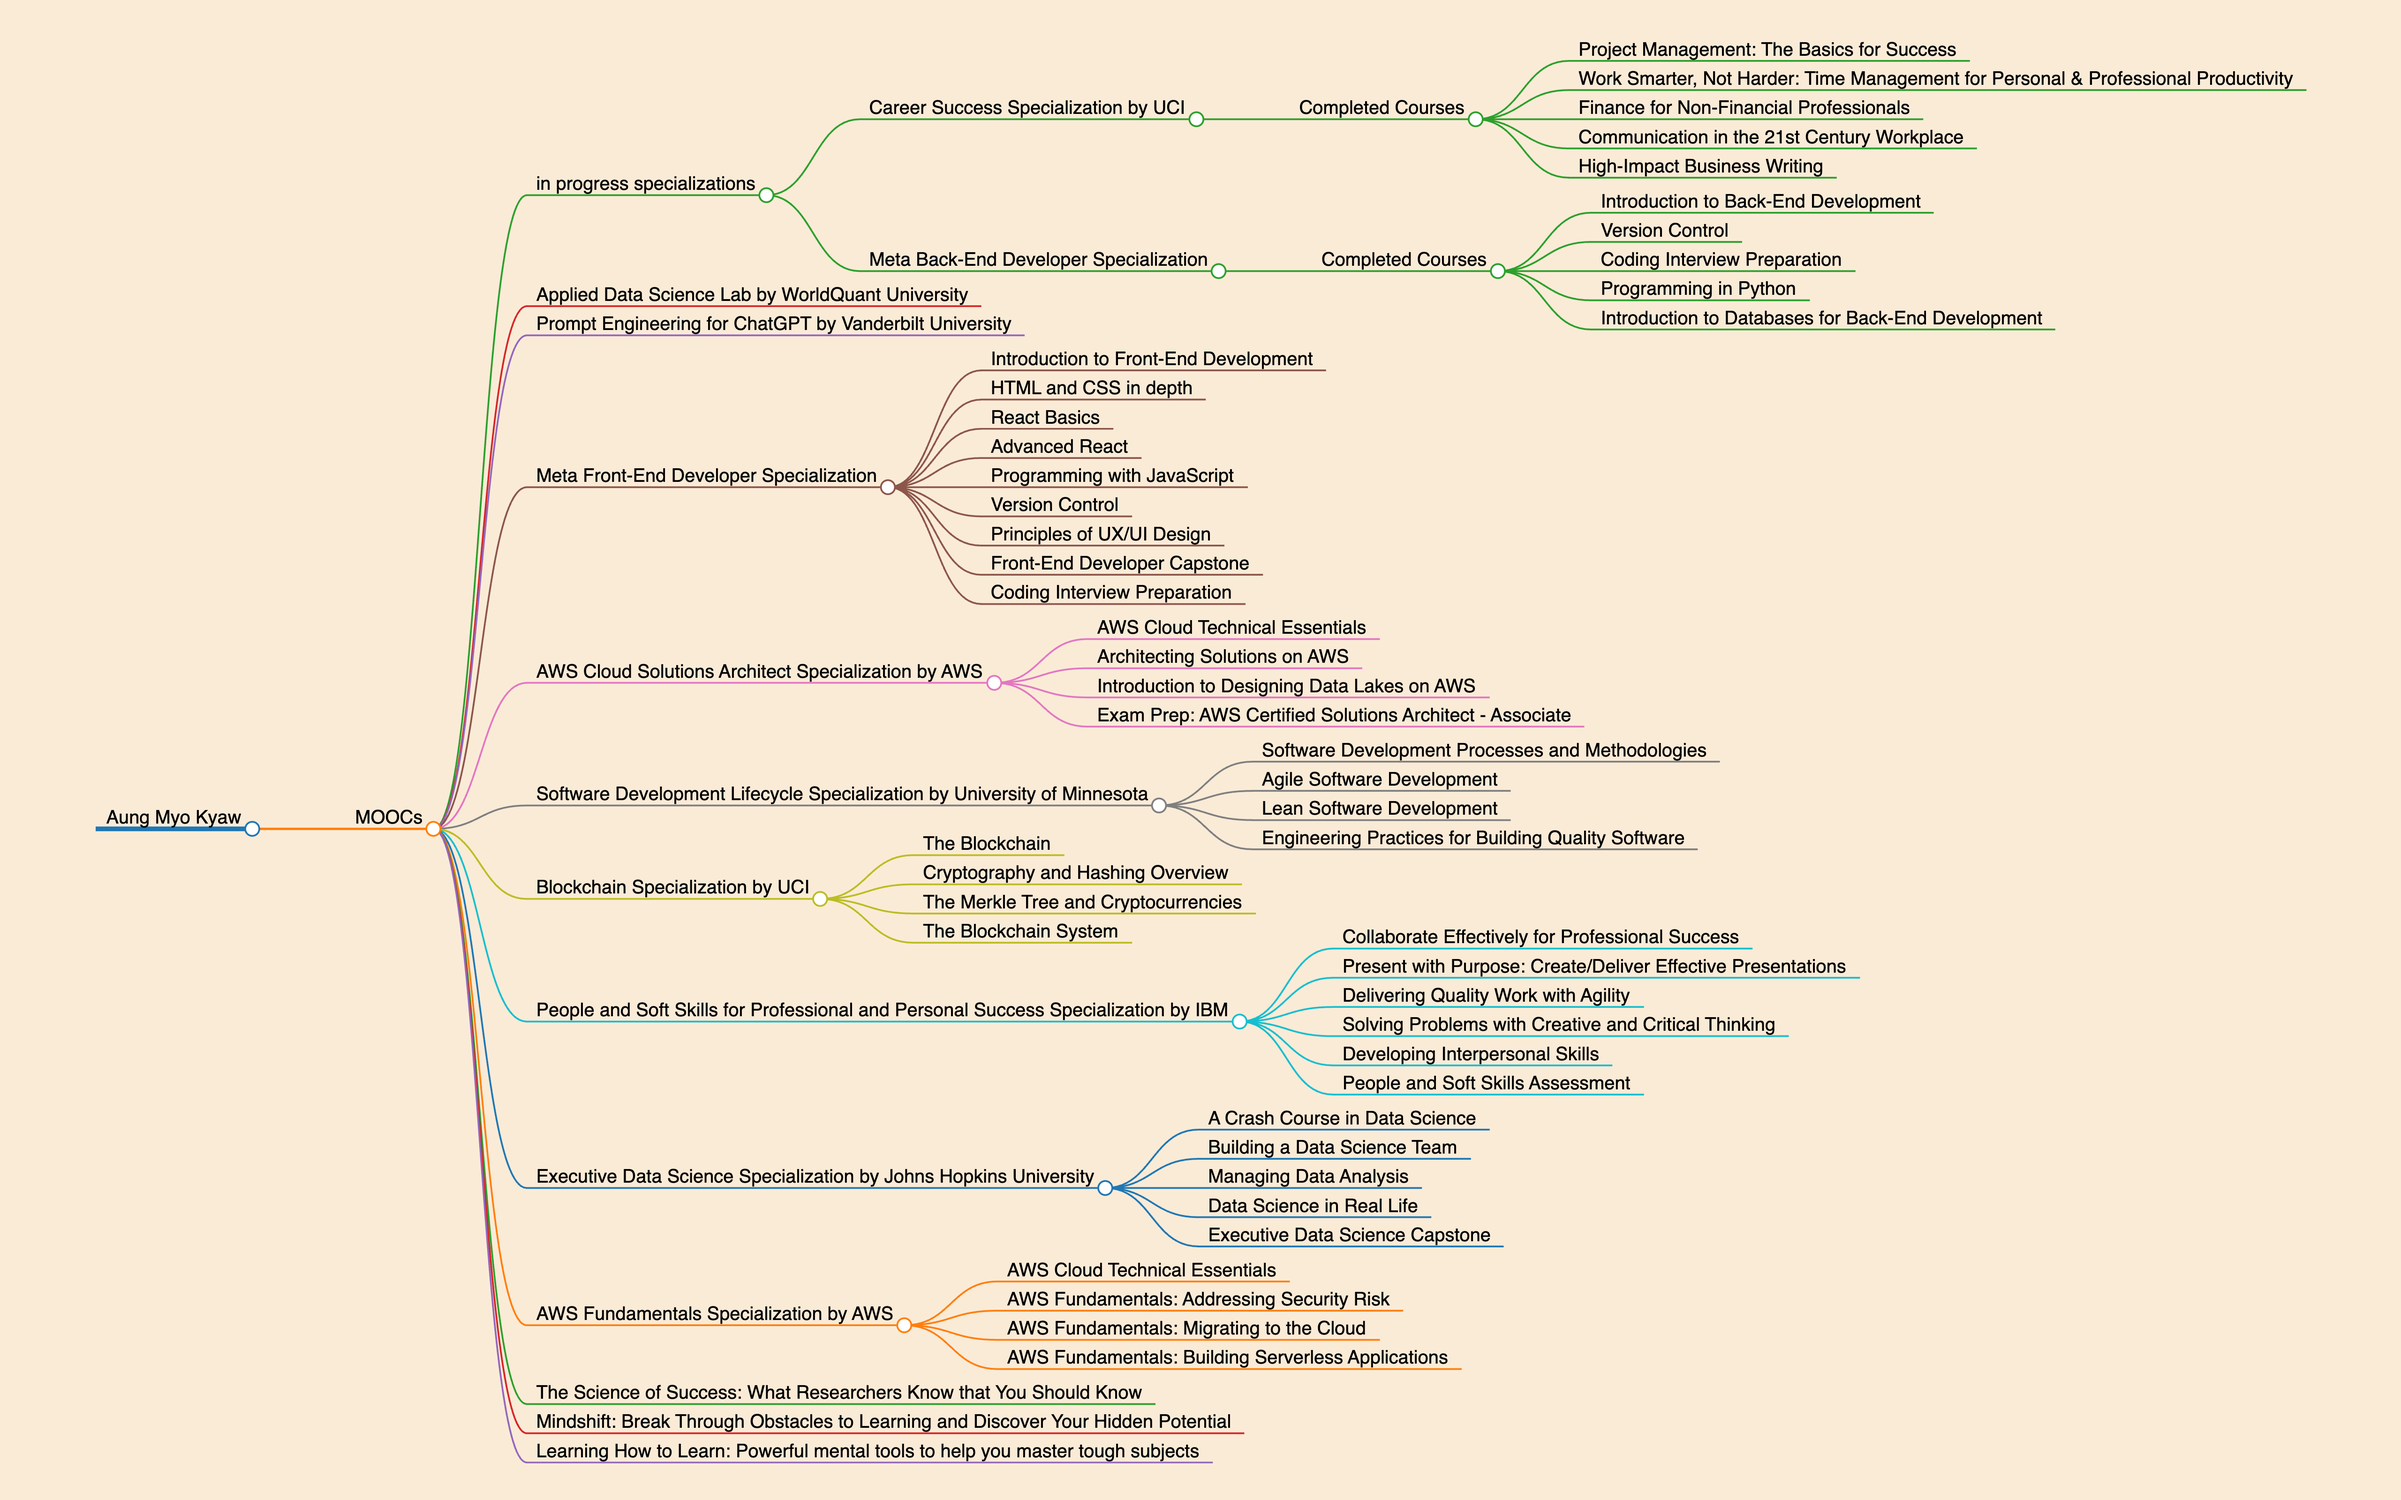
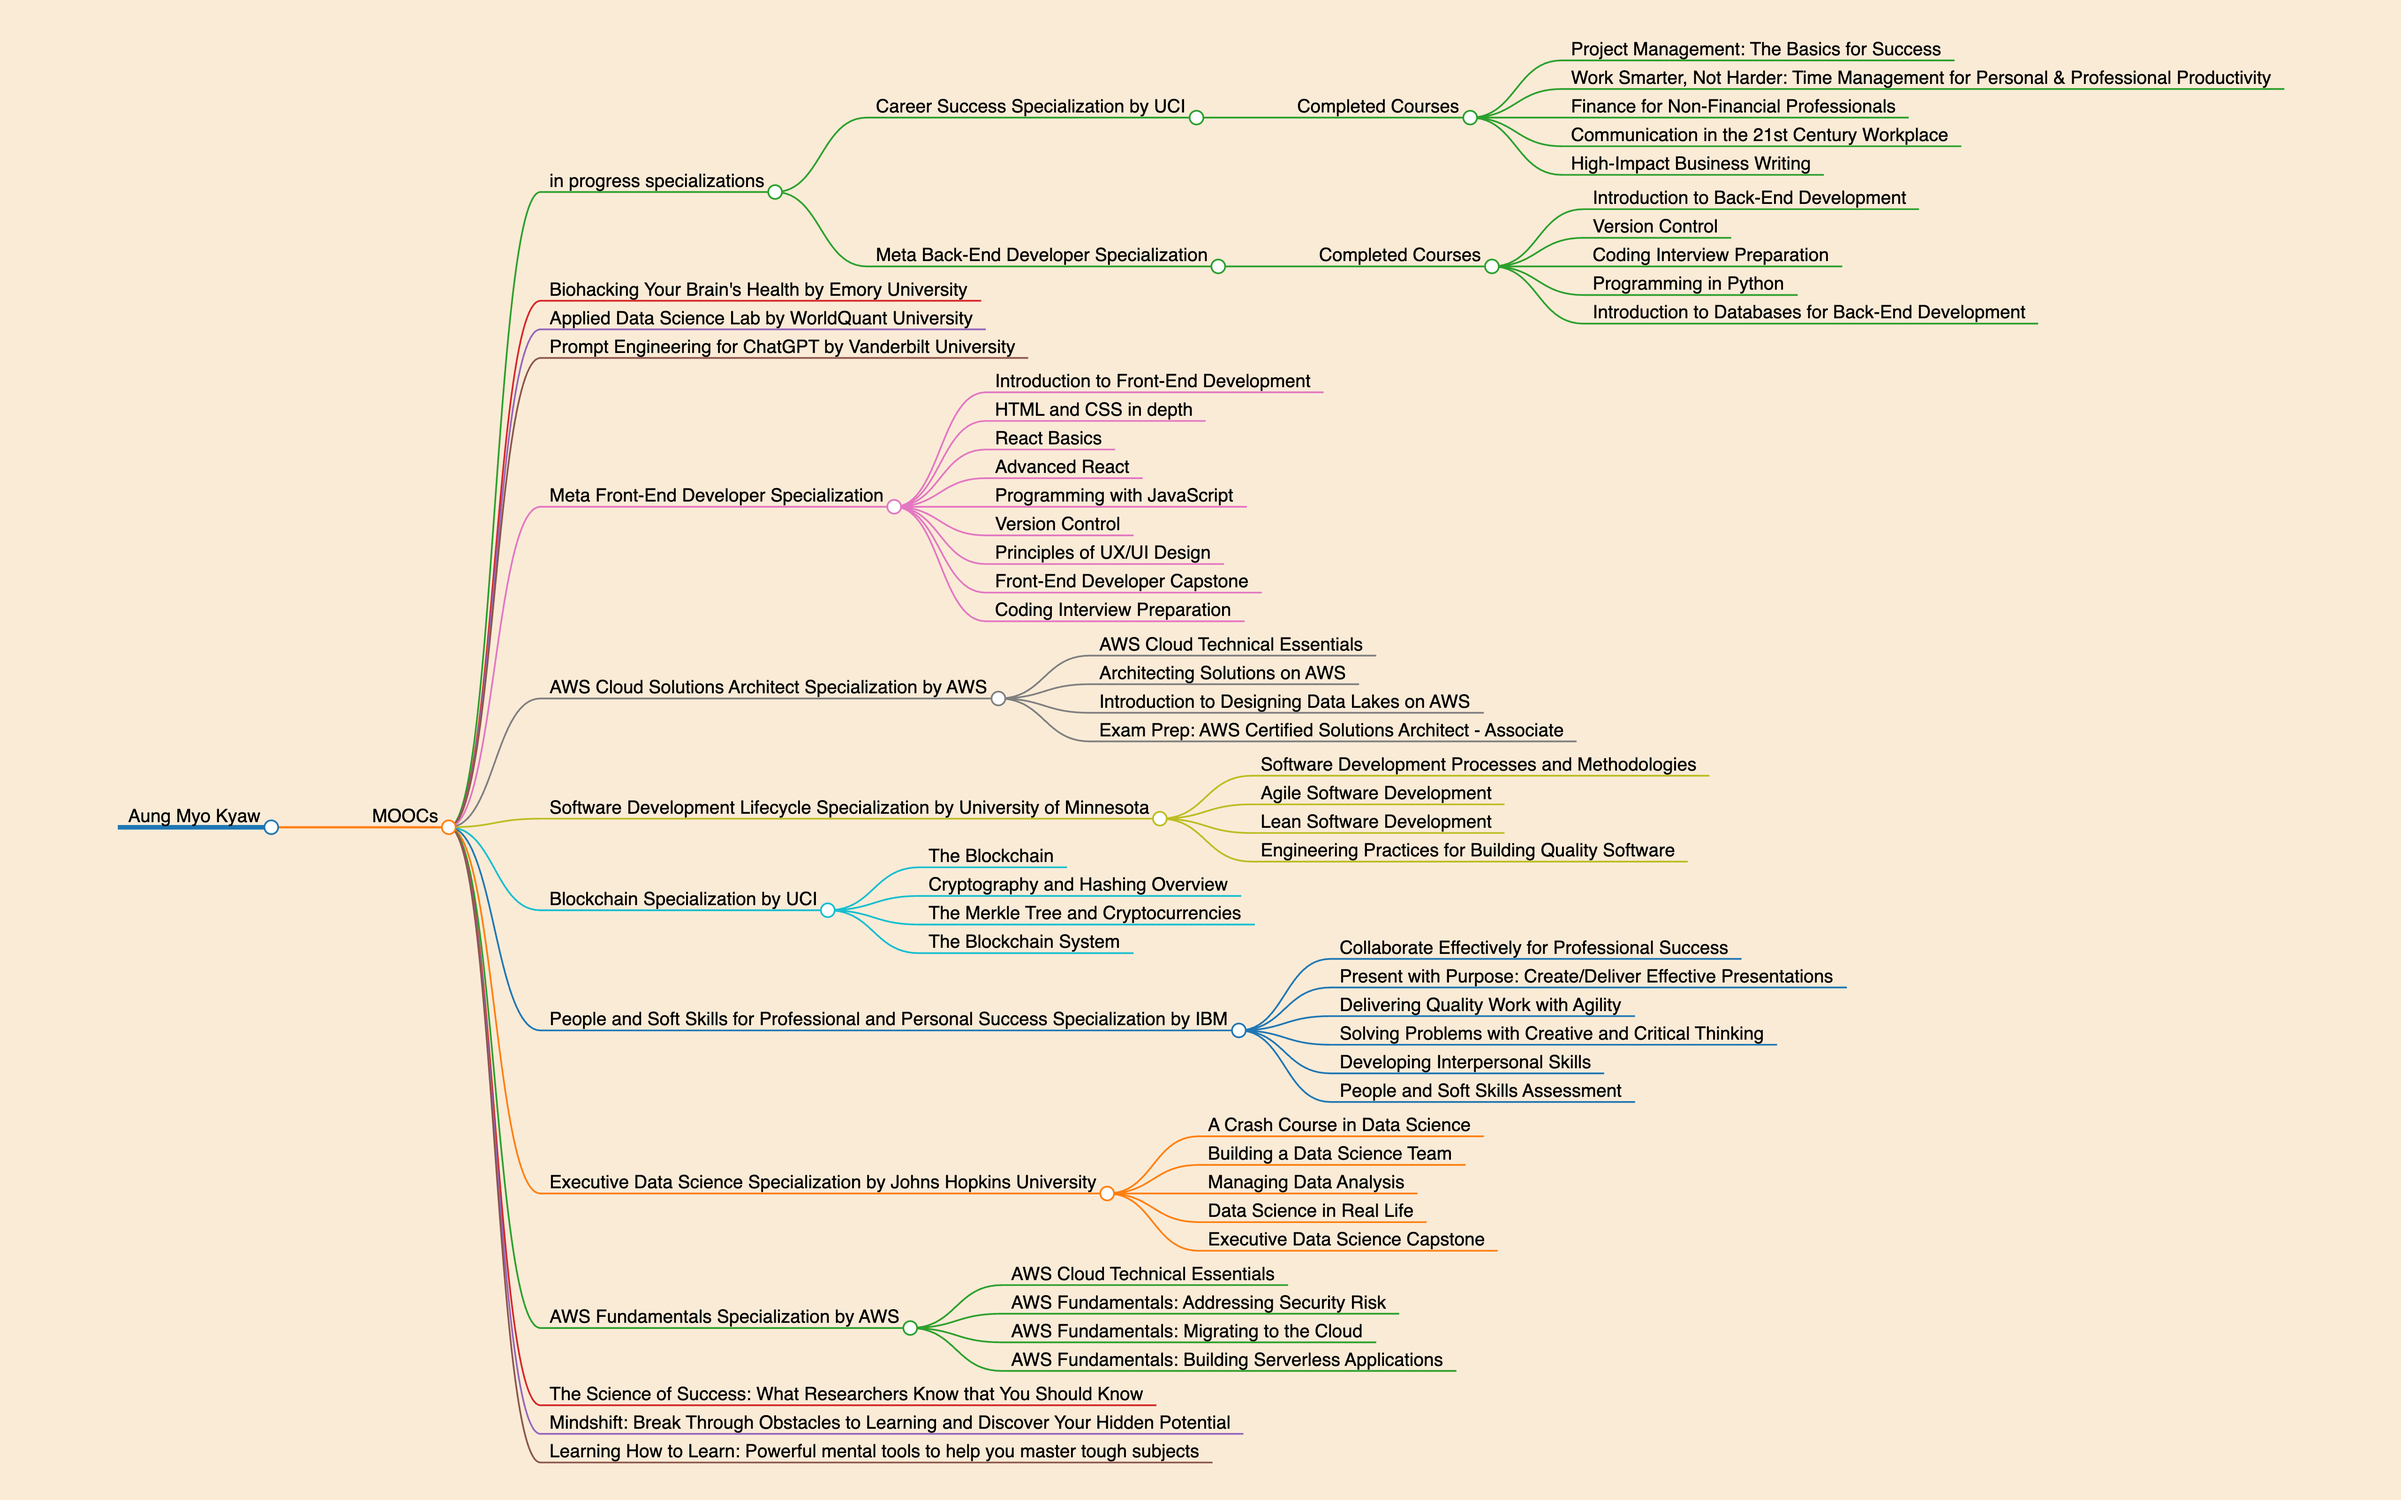
moocs: Biohacking Your Brain's Health by Emory University

Changed region(s): [[0.0312, 0.0312, 0.9688, 1.0], [0.2188, 0.0938, 0.3438, 0.1562], [0.3438, 0.0625, 0.5, 0.0938]]

diff --git a/README.md b/README.md
@@ -47,6 +47,8 @@ markmap:
 
 ---
 
+### [Biohacking Your Brain's Health by Emory University](https://www.coursera.org/account/accomplishments/certificate/7QVQDJLZAF73)
+
 ### [Applied Data Science Lab by WorldQuant University](https://www.credly.com/badges/72d4d407-f65d-4df9-8cc7-156aeb74bfbb)
 
 ### [Prompt Engineering for ChatGPT by Vanderbilt University](https://www.coursera.org/account/accomplishments/certificate/TWXADA5XBUQR)
